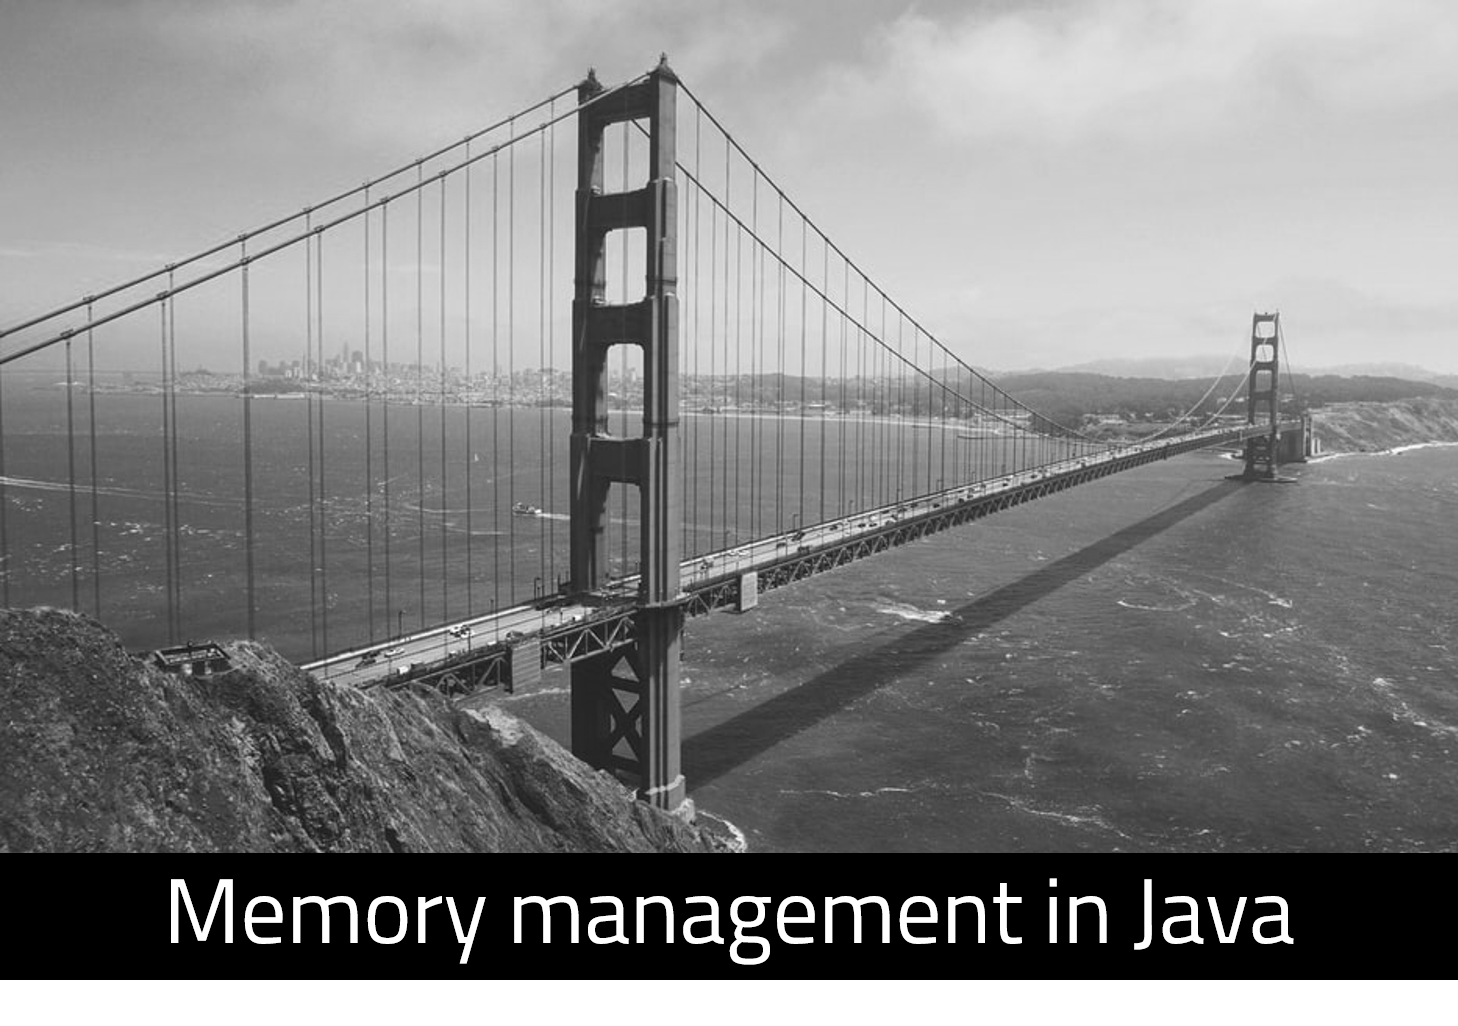
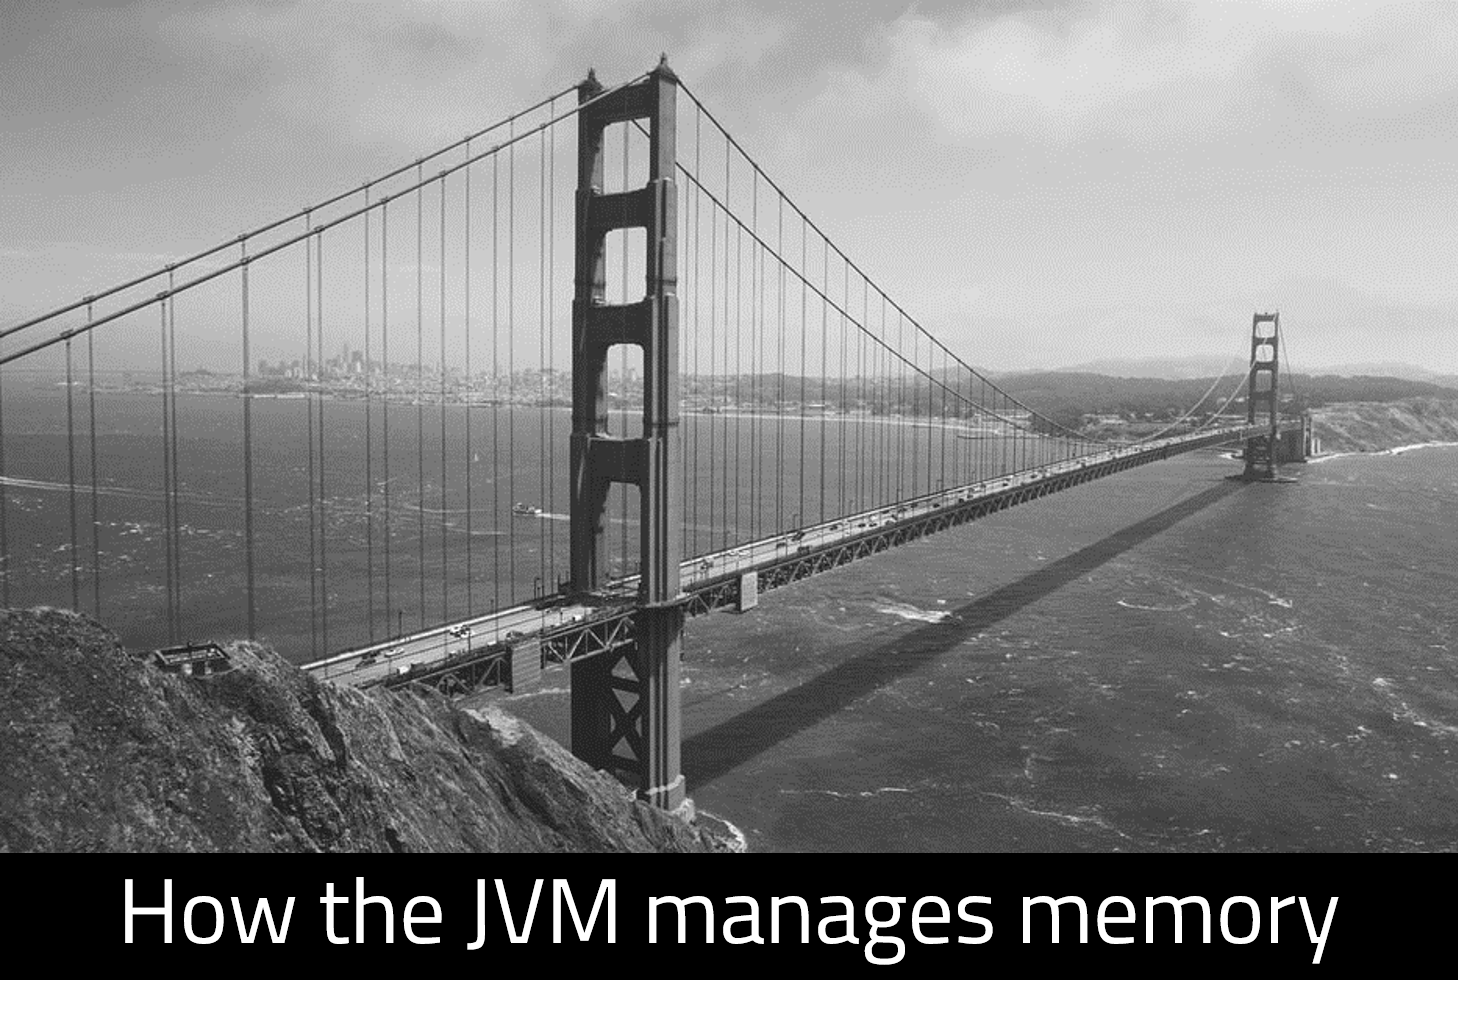
first draft blog 6

Changed region(s): [[0.0617, 0.8421, 0.9259, 0.9357]]

diff --git a/src/pages/about.js b/src/pages/about.js
@@ -21,7 +21,7 @@ const AboutPage = () => (
           <p>Thank you for visiting my website.</p>
           <p>
             I am a software engineer and enjoy building applications
-            with technology, focussing on performance and optimization.
+            with consideration to performance and optimization.
           </p>
           <p>
             I completed my bachelors degree in Banking, Finance, and Management
@@ -34,7 +34,7 @@ const AboutPage = () => (
               <strong>Loughborough University</strong>
             </a>{" "}
             in 2017. The degree included one year in industry where I obtained
-            experience developing tools within the Fixed Income team at UBS
+            experience developing tools for portfolio managers within the fixed income capability at UBS
             Asset Management. My introduction to software development sparked 
             a passion that I am continuing to pursue. In 2018 I graduated from{" "}
             <a

diff --git a/src/components/mailChimp.js b/src/components/mailChimp.js
@@ -12,21 +12,7 @@ export default class mailChimp extends React.Component {
         }
     }
 
-    // _handleSubmit = e => {
-    //     e.preventDefault();
-    //     addToMailchimp(email)
-    //     .then(data => {
-    //         console.log(data)
-    //     })
-    // }
-
-
-    // _handleSubmit = async (e) => {
-        
-    //     e.preventDefault();
-    //     const result = await addToMailchimp(email)
-
-    // }
+ 
 
     _handleChange = e => {
         e.preventDefault();

diff --git a/src/components/image.js b/src/components/image.js
@@ -15,7 +15,7 @@ const Image = () => {
     }
   `)
 
-  return <Img imgStyle={{objectFit: "contain"}}fluid={data.placeholderImage.childImageSharp.fluid} />
+  return <Img rel="noopener noreferrer" imgStyle={{objectFit: "contain"}}fluid={data.placeholderImage.childImageSharp.fluid} />
 }
 
 export default Image

diff --git a/src/components/PaginationLinks.js b/src/components/PaginationLinks.js
@@ -18,7 +18,7 @@ const PaginationLinks = ({ currentPage, numberOfPages }) => {
           <PaginationLink style={{color:"black"}} previous href={previousPage} />
         </PaginationItem>
       )}
-
+  
       
       {Array.from({ length: numberOfPages }, (_, i) =>
         currentPage === i + 1 ? (

diff --git a/src/components/aboutImage.js b/src/components/aboutImage.js
@@ -16,7 +16,7 @@ const Image = () => {
     }
   `)
 
-  return <Img fluid={data.placeholderImage.childImageSharp.fluid} />
+  return <Img  rel="noopener noreferrer" fluid={data.placeholderImage.childImageSharp.fluid} />
 }
 
 export default Image

diff --git a/src/posts/006GarbageCollection.md b/src/posts/006GarbageCollection.md
@@ -1,0 +1,214 @@
+---
+title: 'Memory management techniques'
+date: 2020-05-11 16:34:00
+author: 'Aneesh Mistry'
+featuredImage: ../images/006California.png
+subtitle: 'Exploring the different techniques and ways that a garbage collector can manage memory.'
+time: '10'
+tags:
+- Java
+- Performance
+- Memory
+---
+<br>
+<strong>Key Takeaways</strong><br>
+&#8226; Memory management plays a vital role to speed and performance of an application.<br>
+&#8226; Java uses a garbage collector to automatically manage memory on behalf of the developer.<br>
+&#8226; There are six different types of garbage collectors.<br>
+
+<br>
+<h4>Automated memory collection in Java</h4>
+<p>
+Memory management is the process of assigning memory to Objects created by an application and releasing the memory when the object is no longer required.<br>
+In languages such as C++ and C, the developer will need to manually allocate Objects memory using methods such as <code class="language-c++">malloc()</code> and <code class="language-c++">calloc()</code>. If the developer does not remember to release the Object from the memory, a <i>Memory Leak</i> could occur.<br>
+<p>
+<strong><i>Memory leak: when an Object continues to consume memory even after it is needed or when an Object stored in memory cannot be accessed by the program.</i></strong> 
+</p>
+Memory management can be completed with many different strategies to ensure the application efficiently frees and allocates memory during execution. Memory management techniques used within applications are primarily concerned with the performance requirements of the following factors:<br>
+&#8226; <strong>Throughput</strong>: how quickly memory can be freed from Objects that are no longer required.<br>
+&#8226; <strong>Stop the world events</strong>: a period when the application is completely stopped to allow the memory to be freed and assigned to all live Objects in the application. Stop the world events are an important consideration to make as they hold a large potential against the performance of an application.<br>
+&#8226; <strong>Memory fragmentation</strong>: when memory is widely distributed across a memory block leaving gaps of unfilled memory between Objects. There is a cost-benefit analysis that may arise between the performance gain of using fragmented memory allocation against the cost of memory defragmentation to the application runtime.<br>
+</p>
+
+<br>
+<h4>Garbage Collectors</h4>
+<p>
+Java makes use of garbage collectors to ensure that Objects that are later referenced within the application will not be deleted from memory. Problems can arise using other languages such as C++ where memory is manually allocated and removed. As a result, it is possible that a thread may obtain access to an Object reference and remove it's memory allocation thus resulting in a null pointer when the Object is referenced from a different thread.<br>
+Garbage collectors resolve the null pointer problem through their one and only promise: live objects will not be collected from memory. A Live Object is defined as an Object that is later referenced in the code.
+</p>
+<br>
+<h4>The different types of garbage collectors</h4>
+<p>
+There are 6 different types of garbage collectors that can be selectively used together to enable efficient memory management as per the use of the application. The different types of collectors allow an application to efficiently manage memory as designed against the individual importance of throughput, memory fragmentation, and stop the world event factors. 
+</p>
+<br>
+<h5>Do nothing garbage collector</h5>
+<p>
+Do nothing collectors will guarantee that live objects are kept alive. The promise of the garbage collector is exercised. 
+</p>
+<h5>Reference counting garbage collector</h5>
+<p>
+Reference counting resolves the problem of having circular references within our code. As the Garbage Collector is responsible for collecting live (unreferenced) Objects, a circular reference, where two Objects reference each other, can create a condition whereby neither Object will be collected. Circular referencing exists in the example below:
+
+```java{numberLines: true}
+class One {
+    private Two two;
+     
+    public void setTwo(Two two) {
+        this.two = two;
+    }
+}
+ 
+class Two {
+    private One one;
+     
+    public void setOne(One one) {
+        this.one = one;
+    }
+}
+ 
+public class App {
+    public static void main(String[] args) {
+        //one instance of each class is created
+        One instanceOne = new One();
+        Two instanceTwo = new Two();
+ 
+        // A circular reference is made between the two classes
+        instanceOne.setTwo(instanceTwo);
+        instanceTwo.setOne(instanceOne);
+ 
+        // Although the classes are now null, their reference to each other
+        // remains in the other's method, therefore preventing collection
+        instanceOne = null;
+        instanceTwo = null;
+    }
+}
+```
+
+</p>
+<p>
+Reference counting will resolve the problem of circular references through the increment and decrement of a counter to each Object as they are referenced and dereferenced. As a result, the 'live' counter assigned to each Object will allow the Garbage collector to identify Objects that are truly referenced by the running code.
+
+</p>
+<br>
+<h5>Mark and sweep garbage collector</h5>
+<p>
+Mark and sweep performs three individual phases to Garbage Collection:<br>
+&#8226; <strong>Mark</strong>: identify objects that are currently in use.<br>
+&#8226; <strong>Sweep</strong>: remove unused Objects.<br>
+&#8226; <strong>Compact</strong>: remove fragmentation that may occur from the sweep within the memory.<br>
+</p>
+
+<strong>Mark phase</strong>
+<p>
+During the mark phase, the objects that are reachable are identified by following the course of the root set.<br>
+<strong><i>Root set: the initial set of objects from where the reachability of all the other Objects can be derived upon from when the Garbage Collector is called.</i></strong> <br>
+In the image below, the identified Objects within the memory are marked as 'live', objects that reference each other without a root set reference will not be marked as live.
+</p>
+
+![Mark phase diagram](../../src/images/006Mark.png)
+
+<br>
+<strong>Sweep phase</strong>
+<p>
+During the sweep phase, the Objects that were not marked as 'live' during the mark phase are removed from the heap memory. As a result, the memory block contains only live Objects.
+</p>
+
+![Sweep phase diagram](../../src/images/006Sweep.png)
+
+
+<br>
+<strong>Compact phase</strong>
+<p>
+The current memory block contains a fragmented distribution of Objects. During the compact phase, the physical memory address of each Object is changed. The Objects are rearranged in the memory block so that they are aligned next to each other. If a compact phase was not executed, Objects would need to fit within the fragmented spaces of the memory block if they are to be stored. Following the compact phase, the memory block has an open space to add Objects as they are assigned to the heap, thus allowing the full memory block to be utilised.
+</p>
+
+![Compact phase diagram](../../src/images/006Compact.png)
+
+
+<h5>Copying garbage collector</h5>
+<p>
+The Copying Garbage Collector uses two memory blocks, named 'fromSpace' and 'toSpace'. During each garbage cycle, Objects will be stored in one of the blocks; when the block becomes full, a Mark and Sweep will be performed by the Garbage Collector, moving the Objects that remain after the Collection into the 'toSpace' memory block. The 'fromSpace' memory block will now become empty and will referenced as the 'toSpace' when the next garbage collection performs a Mark and Sweep on the newly assigned 'fromSpace' block.
+
+![Copying diagram](../../src/images/006Copying.png)
+
+
+</p>
+<br>
+<h5>Incremental garbage collector</h5>
+<p>
+An incremental garbage collector is a type of garbage collector that does not look at all the Objects during a cycle. The purpose of an incremental collector is to improve the performance and efficiency of a garbage collector. Similar to the copying garbage collector, the incremental will use different memory blocks to implement divide the distribution of Objects to be reviewed.
+</p>
+<br>
+
+<h5>Generational garbage collector</h5>
+<p>
+A Generational garbage collectors is a form of incremental garbage collector. Generational collectors aim to improve the efficiency of a Mark and Sweep cycle by dividing Objects into sets (generations) according to when they were last used. As an Object survives a Mark Sweep cycle, they are promoted into an 'older' generation which holds a lower priority for the Objects to be reviewed. Different generational garbage collectors will implement rules that determine when an Object is promoted and when different generations are reviewed by the cycle. Once an Object is moved into the older generation, the younger generation is cleared to allow new Objects to be assigned memory. 
+</p>
+
+<br>
+<h5>How the Java Virtual Machine uses garbage collection</h5>
+<p>
+The JVM uses generational, copying, and mark and sweep garbage collectors/ The JVM garbage collector consists of two generations: young and old. There are two types of garbage collections used: <strong>minor</strong> collections that occur within the young generation, and <strong>full</strong> collections that occur across both generations.<br>
+The young generation has 3 different memory spaces within it: <br>
+&#8226; <strong>Eden space</strong>: where new Objects are directly allocated memory into.<br>
+&#8226; <strong>Survivor space 1 and 2</strong>: live Objects are assigned into one of the spaces following a minor collection. The two spaces are used for copying garbage collection and to compress memory fragmentation.
+</p>
+<p>
+<strong>Garbage collection cycles within the JVM</strong><br>
+1. New Objects are assigned to the Eden space when they are created.<br>
+2. When the Eden space is full, a minor collection is run using a mark and sweep. <br>
+
+![Eden space full](../../src/images/006Cycle1P1.png)
+
+
+<p>
+3. Objects that survive the mark and sweep are assigned into one of the survivor spaces.<br>
+
+<p>
+The marked objects from the Eden space are moved into the Survivor 1 memory block.
+</p>
+
+![Live objects into survivor 1](../../src/images/006Cycle1P2.png)
+
+<p>
+4. When the Eden space becomes full again, the minor collection will be performed on the Eden and Survivor 1 space. The Objects that survive the collection are moved and compressed into the Survivor Space 2.<br>
+</p>
+
+![Mark sweep survivor 1](../../src/images/006Cycle2P1.png)
+
+<p>
+The objects are moved into Survivor space 2 and compressed.
+</p>
+
+![Copy into survivor 2](../../src/images/006Cycle2P2.png)
+
+<p>
+5. The JVM can specify a number of cycles an object can survive before it is promoted into the old generation. In the example below, 3 cycles are used. When the survivor and eden space are full, Objects that meet the criteria for promotion are moved into the old generation. The old generation Objects will no longer be reviewed by the minor collection.
+</p>
+
+![Mark sweep survivor 2](../../src/images/006Cycle3P1.png)
+
+<p>
+Objects that have survived 3 cycles are promoted into the old generation.
+</p>
+
+![Copy into survivor 1 and old](../../src/images/006Cycle3P2.png)
+
+<p>
+6. When the old generation eventually becomes full, a <strong>full</strong> garbage collection is run. The full collection will scan both generations, perform a mark and sweep and remove dead Objects. 
+</p>
+
+</p>
+<p>
+The JVM garbage collector is designed using 'Turtle theory'. The theory assumes that Objects either live for a short time, or they live <i>forever</i>. By dividing the memory blocks into generations, the memory management system can utilise minor collections to identify and remove short-lived Objects while only using stop the world events sparingly through full collections.
+</p>
+<br>
+<h4>Conclusion</h4>
+<p>
+Garbage collectors introduce different types of mechanisms for allocating and freeing memory within an application.
+There are many variables that are involved with garbage collection and that require consideration. The decisions made, on how a garbage collector will work, can vary on an application-basis. The many types of implementations also allow the Garbage collector to leverage different styles to efficiently pick up loose memory. The review in this blog has only covered the very basic use of a garbage collector within Java. The multi-threaded environment of Java can enable concurrent garbage collectors that minimise the use of stop the world events and specify exactly when the garbage collector is run. The example visited in this blog describes the default parallel garbage collector, just one of four garbage collectors used in Java. Other collectors provide advantages and drawbacks that can be chosen as per the application behaviour: serial, concurrent mark sweep, and G1.
+</p>
+
+<br>
+<small style="float: right;" >Picture: Golden Gate Bridge, San Francisco by <a target="_blank" href="https://unsplash.com/@mvdheuvel">Maarten van den Heuvel</small></a><br>

diff --git a/src/posts/001helloWorld.md b/src/posts/001helloWorld.md
@@ -3,7 +3,7 @@ title: 'Hello World'
 date: 2020-04-06 16:34:00
 author: 'Aneesh Mistry'
 featuredImage: ../images/001London.png
-subtitle: 'My first blog post! How I started engineering and what I aim to acheive'
+subtitle: 'My first blog post. Why I started engineering and what I aim to acheive'
 time: '3'
 tags: 
 - Personal
@@ -12,14 +12,14 @@ tags:
 
 <p>
 It was roughly 5 years ago when I wrote my first line of code. I had attended a job interview for an internship when I was asked about writing macros to reflect upon my experience with Microsoft Excel. That evening I wrote my first macro to change the colour of a cell to red with a keyboard shortcut.<br>
-Two lessons were taken from that day: there are many doors in technology that allow us to achieve things we couldn't imagine, and the advent of high-level programming languages provide a more intuitive experience writing code than one may think.
+Two lessons were taken from that day: there are many doors in technology that allow us to achieve things we couldn't imagine, and the advent of high-level programming languages provides a more intuitive experience writing code than I could have thought.
 </p>
 </p>
 Fast-forward to the present day and I am starting a blog to document the areas of technology that I explore, find interesting, and am challenged by on a daily basis.<br>
 My experience with writing a dissertation, where I had to introduce the technologies involved (Big Data and Blockchain) allowed me to appreciate the process and value of understanding a technical concept to its core. My blog will support me with the opportunity to write bite-sized posts on how and why the technologies I use work.
 </p>
 <p>
-My expectations for this blog are that it will surround my current preferred stack of Java, Spring, and AWS.<br>
+My expectations for this blog are that it will surround all areas of Java, Spring, and AWS.<br>
 Despite this, the deluge of questions that arrive each day from my search for answers will no doubt broaden the context.<br>
 Nevertheless, I am creating this website for my enjoyment and with the hope that you, the reader, may also benefit from one of the many challenges I overcome as an engineer.
 </P>
